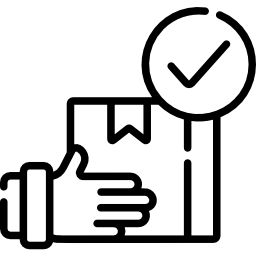
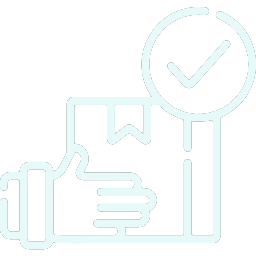
Addition of white items

Changed region(s): [[0.0, 0.0, 1.0, 1.0], [0.6562, 0.1562, 0.9062, 0.3438]]

diff --git a/Frontend/CSS/dashboard.css b/Frontend/CSS/dashboard.css
@@ -263,6 +263,10 @@ h1{
     box-shadow: 0 4px 10px rgba(0, 0, 0, 0.1);
 }
 
+.analytics-card h3 {
+    color: var(--blue);
+}
+
 .analytics-card img {
     width: 100%; /* Allow the image to take up the full width of the card */
     height: auto; /* Maintain the aspect ratio */
@@ -291,7 +295,7 @@ h1{
     border-radius: 10px;
     box-shadow: 0 4px 10px rgba(0, 0, 0, 0.1);
     padding: 20px;
-    width: 180px; /* Adjust the card width */
+    width: 269px; /* Adjust the card width */
     text-align: center; 
     margin-top: 100px; /* Space for the banner above */
     transition: transform 0.3s ease, box-shadow 0.3s ease, background-color 0.3s ease;
@@ -321,7 +325,7 @@ h1{
     margin-top: 10px;
     font-size: 30px;
     font-weight: bold;
-    color: #000000;
+    color: #ffffff;
 }
 
 .standing-card:hover {

diff --git a/Frontend/HTML/dashboard.html b/Frontend/HTML/dashboard.html
@@ -127,6 +127,8 @@
                     </div>
                 </div>
 
+                
+
 
                             <!--=========Scripts======== -->
                             <script type="module" src="../JS/InventlyHomepage.js"></script>
